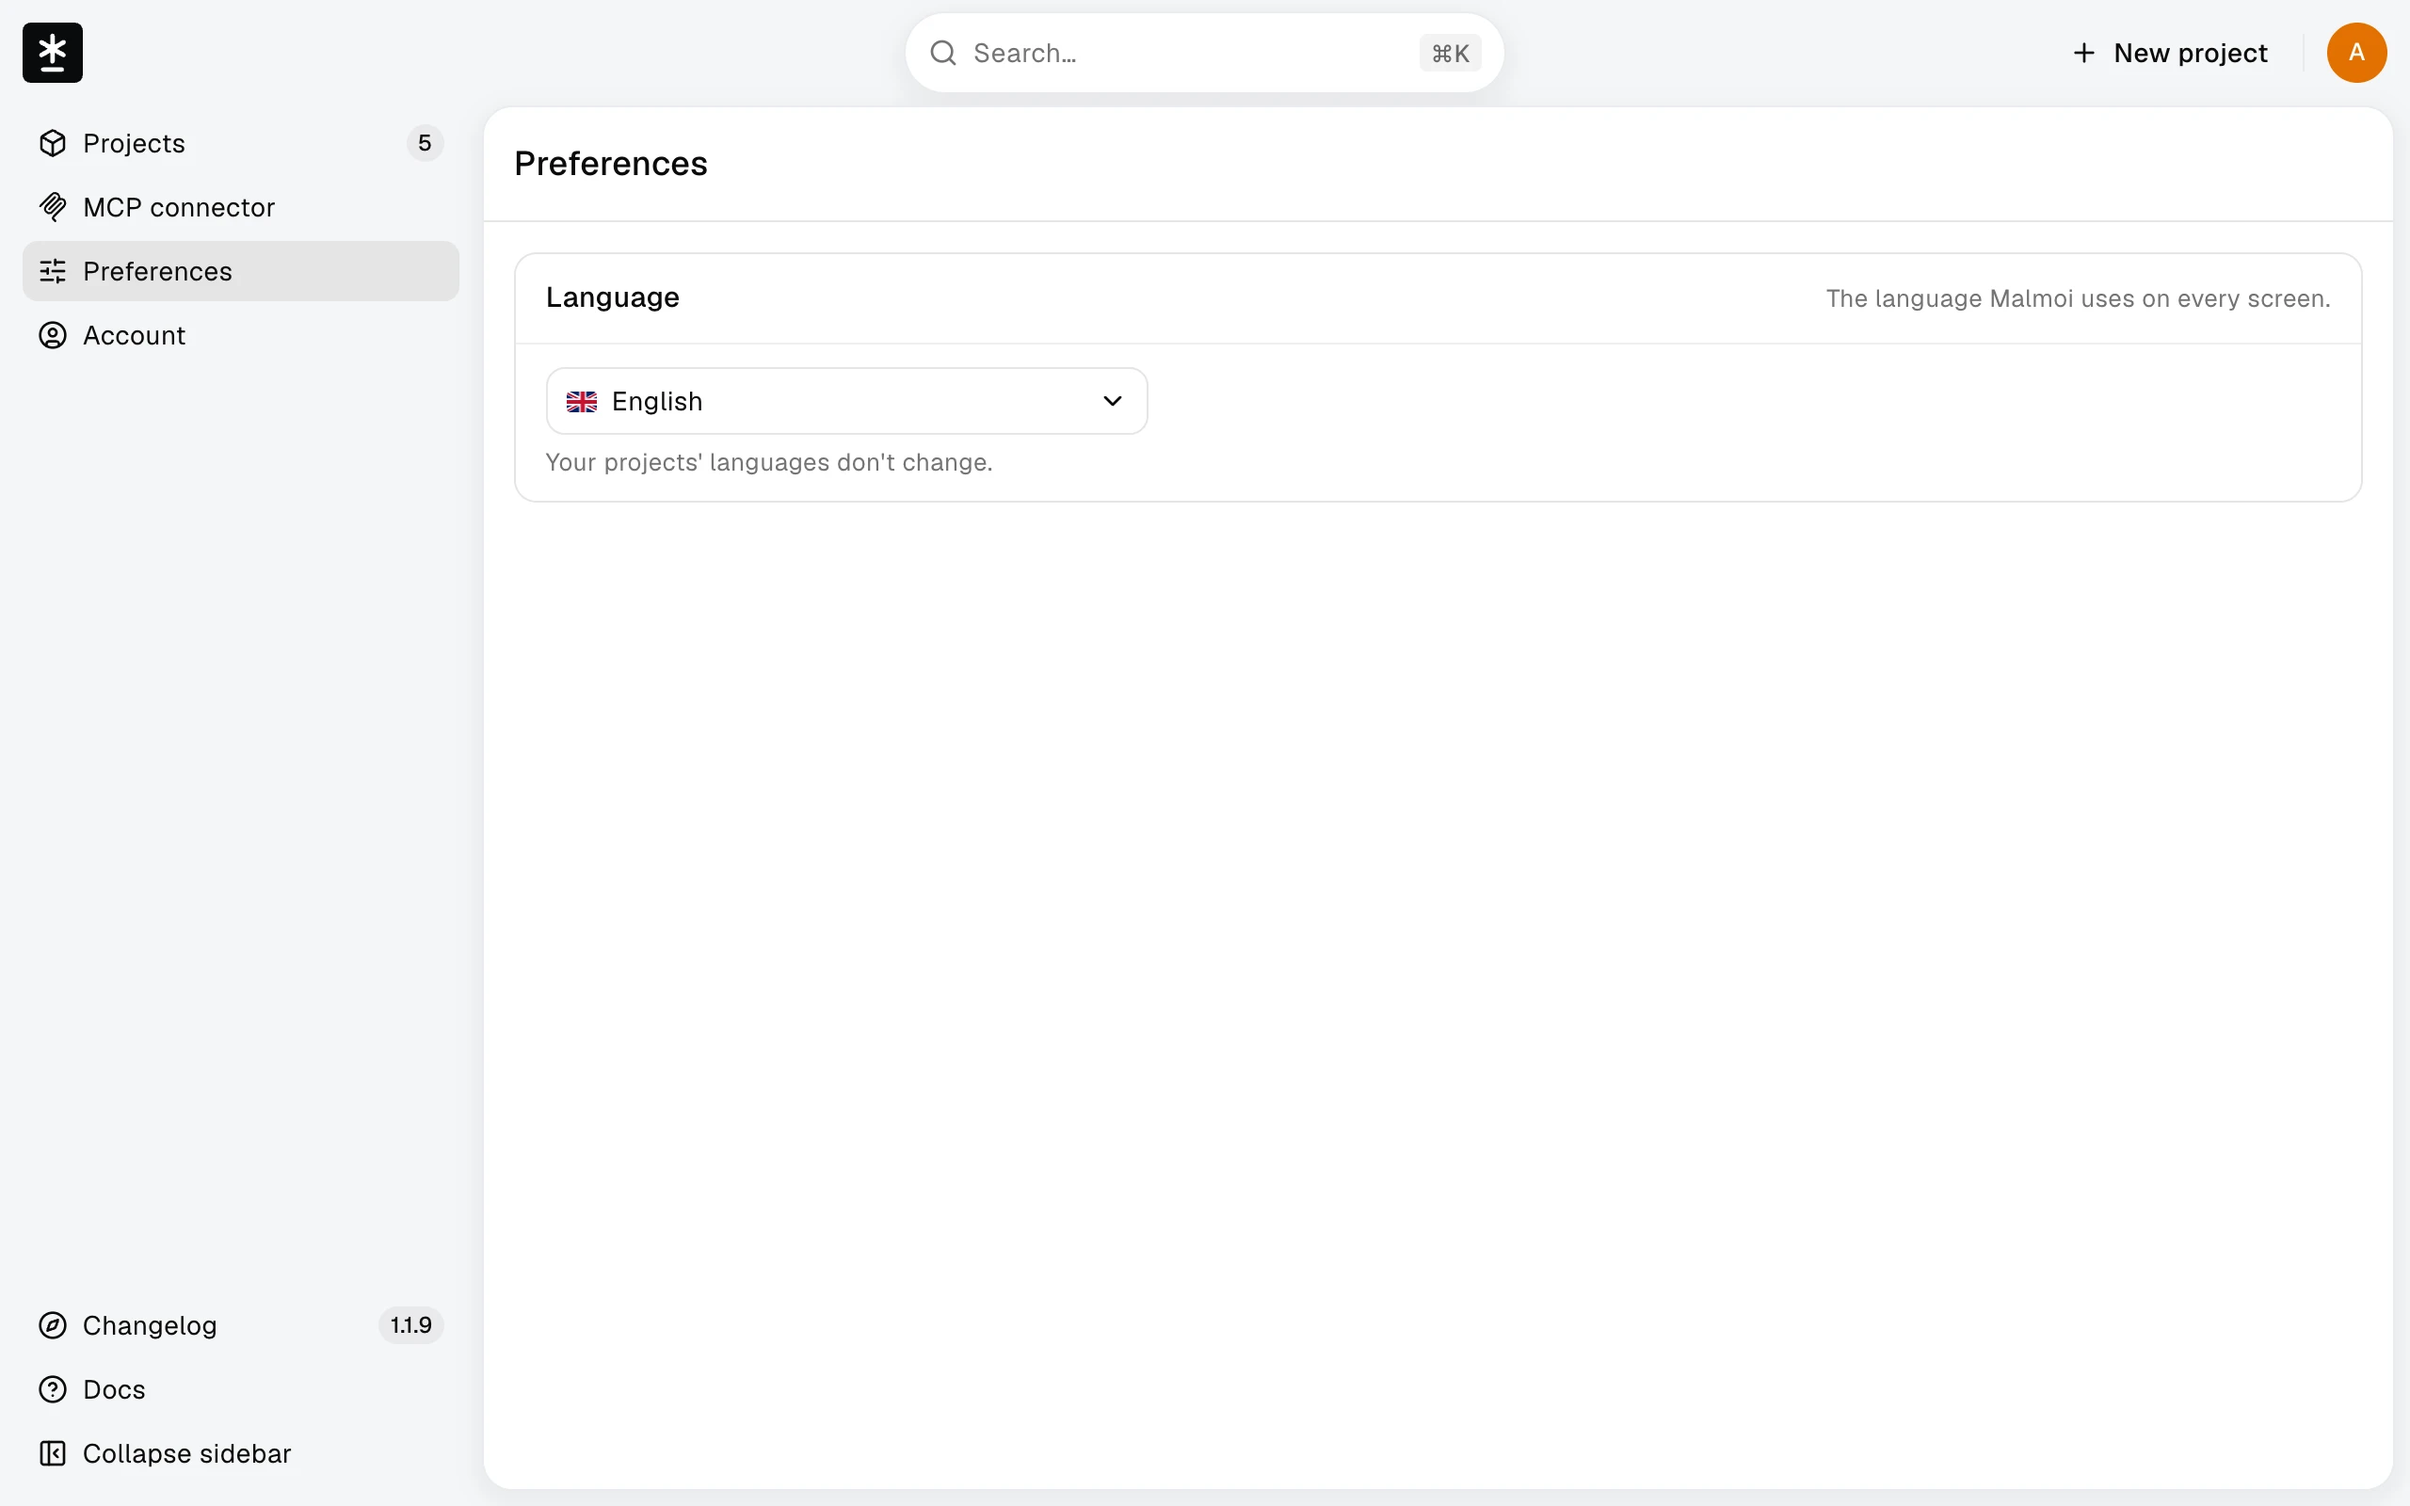
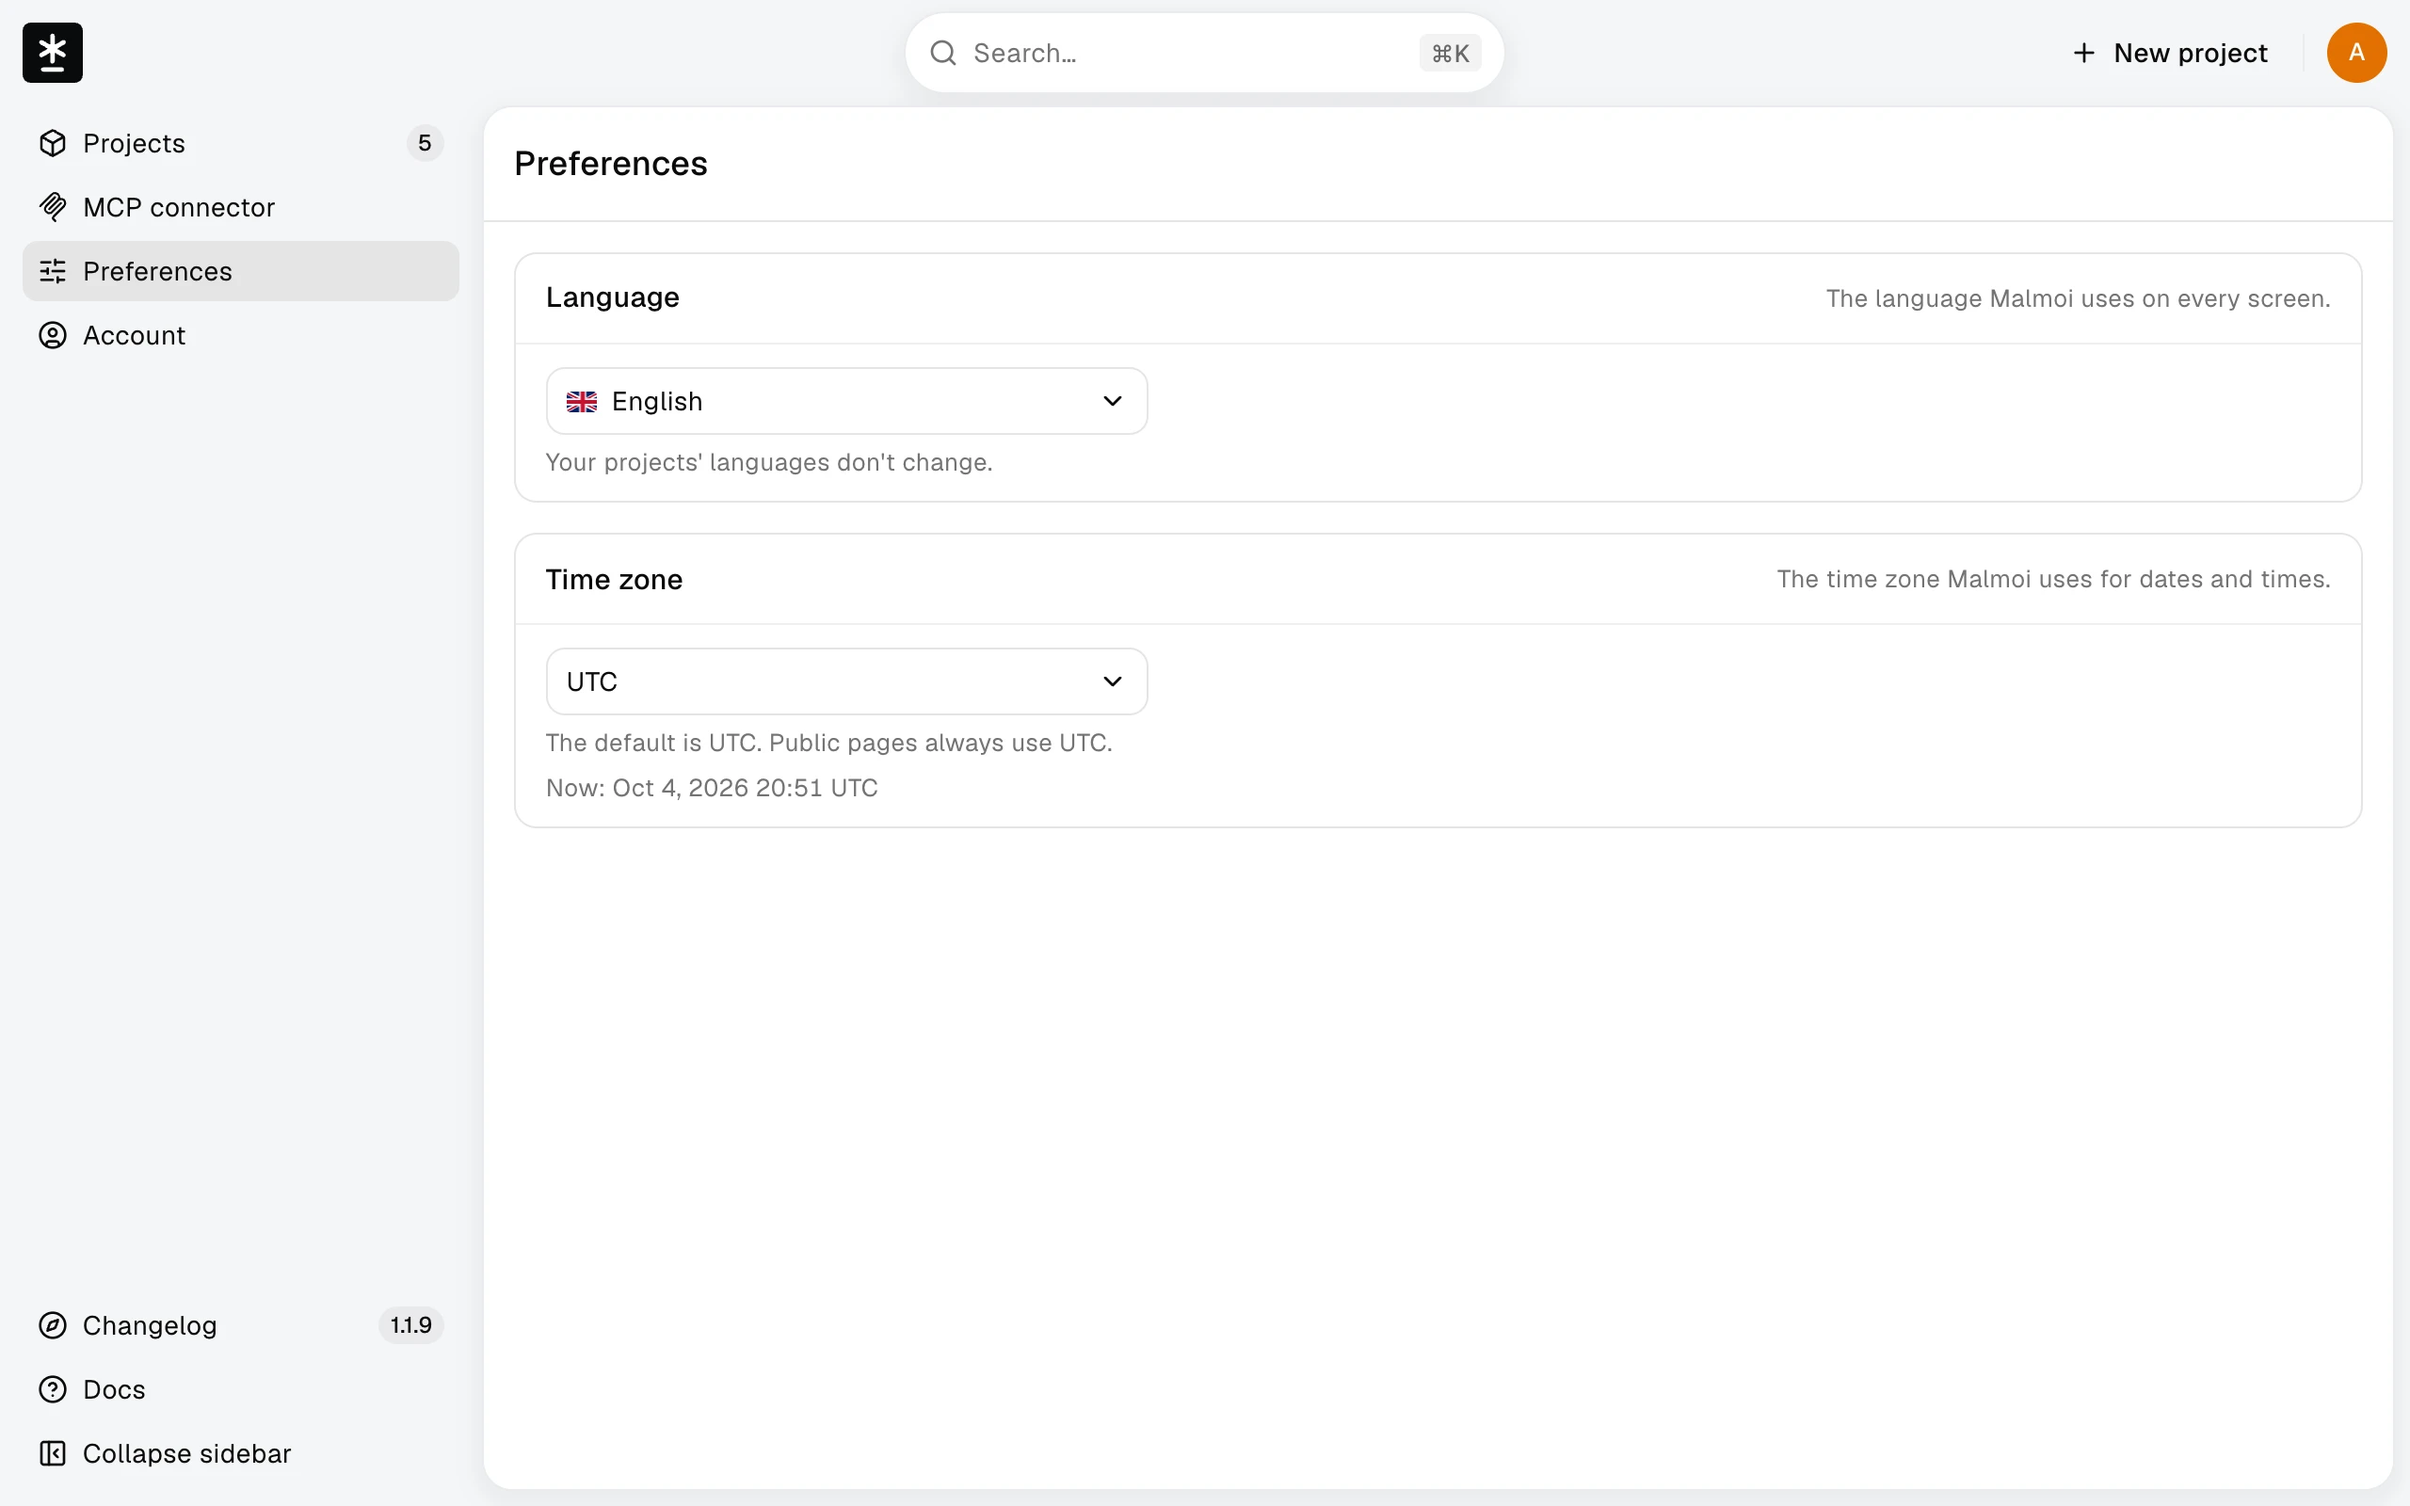
docs(guide): reshoot preferences with the time zone card

Changed region(s): [[0.2188, 0.4688, 0.4688, 0.5312], [0.75, 0.375, 0.9688, 0.4062], [0.2188, 0.375, 0.2812, 0.4062]]

diff --git a/guide/SHOOTING.md b/guide/SHOOTING.md
@@ -137,7 +137,7 @@
 | /guide/logs-event.webp | components/logs/event-dialog.tsx, components/logs/event-detail.tsx | 0dedec5f350f028a90964b1de78ea9b59ff0bf35, 2b19664f09f631ee69e914ae58d3536fa760fbe6 | 2560x1600 |
 | /guide/account.webp | app/(edit)/account/page.tsx, components/account/profile-picture.tsx, components/account/login-methods.tsx, components/account/github-section.tsx | 08c082fdfcf73447117b8630f1935c2df7616260, 398f113d7977abdc5f558f52e70bab28bdce3927, c5a0185be30d378a43f5f1fd74abdc4aff87fa6f, 9ba2437980de1b0efb7d651cae50a654a2415b41 | 2560x1600 |
 | /guide/footer-language-menu.webp | components/i18n/locale-switcher.tsx, lib/i18n/locales.ts | 26526326dab777d54e7992f65cf8ff62319bae4f, 4a40e67d1ad909c10f68096163fcbf9eaa3d528d | 2560x1600 |
-| /guide/preferences-language.webp | app/(edit)/preferences/page.tsx, components/preferences/language-card.tsx, dict:uiLocale.label, dict:preferences.help | b00175ed3188e7afd76c8d473e776c186c029f7d, d1c5f69237e54b80cab7e6e54bdc536d4fdf2d3e, 89b86ab0e66f527166d98df92ddbcf5416ed58f6, 7a750458e565a71d07b3e10a45654499a58c2673 | 2560x1600 |
+| /guide/preferences-language.webp | app/(edit)/preferences/page.tsx, components/preferences/language-card.tsx, components/preferences/time-zone-card.tsx, components/preferences/preference-select-card.tsx, dict:uiLocale.label, dict:preferences.help | a2c67d7b9003de6c34fb7b728ace95aa2e7698ac, 35fad581fb2f5b7b9ab4b854151513f55fa608bd, e89003ad1ccfc47db86ab5c6afc09e6f95d6aefb, 9f2170634bd334e35f5c5af9be137bb5b5193afd, 89b86ab0e66f527166d98df92ddbcf5416ed58f6, 7a750458e565a71d07b3e10a45654499a58c2673 | 2560x1600 |
 | /guide/mcp-create-token.webp | components/mcp/token-modal.tsx, components/mcp/token-grant-fields.tsx | af606c315ee6be9fbde91726442a1eaf1b434875, 7e1886518d239bbb8c0cf7ca2aa9b68648f3576b | 2560x1600 |
 | /guide/mcp-connector.webp | components/mcp/connected-apps-card.tsx, components/mcp/token-card.tsx | 622ad68db7cd503d0a130615ef0296835285b92c, 9c41fc7bc3180499c970f2d0219b66e080e15bad | 2560x1600 |
 | /guide/oauth-consent.webp | app/oauth/authorize/page.tsx, components/oauth/consent-panel.tsx, components/oauth/app-card.tsx, components/mcp/token-grant-fields.tsx | f7d6f8fe1be6b9580261103ade395f17f3a8dbff, 2660e31ba25278e2addd3e3bcddeb3b9a94c486e, aa583137442fbd8122e5ca461701f5ffa2dbe599, 7e1886518d239bbb8c0cf7ca2aa9b68648f3576b | 2560x1600 |
@@ -190,3 +190,4 @@
 - 2026-10-03 search-ux-polish GS(사용자 — "이번에 다 찍는다") — **`guide:check` stale 25컷 전부 + README 두 장(`hero` · `logs`) 재촬영**, 밀린 `create-ready` 포함. 그대로 둔 둘: `push-token-secret` · `actions-policy`(GitHub 화면, stale 아님). 검색 Dialog·스위처는 가이드 컷이 없어 따로 찍지 않았다 — 셸 헤더의 검색 트리거는 모든 셸 컷에 들어갔다. **상주 촬영 프로젝트 `Acme web`(위 절)을 이 촬영으로 만들었다**: 촬영 리포에 픽스처 두 커밋(전체 적재용 · 원문 셋 수정과 새 키 둘) → ①–④를 그 생성 흐름 그대로 찍었다(①은 `i18n`으로 거른 목록에서 `web` 선택, ②는 `web`·`emails` 두 세트, ③은 `Acme web`/`acme-web`, ④는 토큰 input을 43자 가짜 값으로 바꾸고 `api-url` 두 줄 제거) → OWNER Sync로 검토 대기 9칸 → EDITOR 초대 1건을 dev DB에 심어 `accept-invitation`을 찍고 **실제로 수락**(상주 멤버). 번역·Home·Members·Sources·Settings·Publish·Revert 컷은 전부 `Acme web`, `logs-event`·README `logs`는 PR 이력이 있는 `bugshot-i18n-test-qa`(Kind: Publish, 17:11 행부터). MCP 연결 둘은 가짜 `OAuthConnection` 행 → 촬영 뒤 id로 삭제(0→0), `oauth-consent`는 claude.ai CIMD authorize 요청(Authorize 안 누름). 전후 대조: 기존 프로젝트 셋(`bugshot-i18n-test-qa` 사건 476 · `i18n-order-check` 72 · 보관된 `malmoi` 11)은 그대로, `acme-web`이 새로 생겼다(키 64 · 멤버 2 · 사건 11 · 미전달 0), OAuth 연결 0→0, 촬영 리포에 PR 없음. ⚠ **새로 밟은 것**: dev DB가 촬영 중 한 번 `DatabaseNotReachable`로 Home을 `Something went wrong`으로 그렸다 — 캡처 전에 그 문구가 없는지 확인한다. Settings·Account의 파일 입력은 브라우저 로케일 문구(한국어)를 숨긴 input에 들고 있어 화면엔 안 보인다. `create-name`은 Address 입력에 포커스 링이 남으니 blur 뒤 찍는다. Logs의 Kind 필터 버튼도 고른 뒤 포커스 링이 남는다.
 - 2026-10-04 project-card-tabs(Home 메타 열이 탭 셋 `Project` · `Sync` · `Publish` · Logs Publish 상세에 `Values` 칸) — `guide:check` stale 6컷(10건). **재촬영 8**: `project-home`(OWNER, 착지 그대로 Project 탭) · `home-paused`(OWNER, **Sync 탭** — 본문 `sync/push.md`가 "Sync 탭의 Hold 행에 Held"라고 말하므로 그 탭을 찍었다) · `sync-discard`(OWNER, Project 탭 메타 열이 Dim 뒤로 보인다) · `sources`(`f78e3d2d` — 행 설명 굵기 500→400) · `logs-event`(같은 사건 `Jordan Lee sent translations to GitHub` · 2 files, `Values`는 기록 이전 실행이라 `— not recorded for this run`) · `home-publish` · `publish-preview` · `publish-result`(EDITOR — 뒤 두 장은 stale이 아니지만 Dim 뒤가 Home이고 같은 셋업 흐름이라 함께 찍었다). **SHA만 갱신 1**: `workflow-file` — `ci-card.tsx`의 행 설명 굵기 변경은 모달 Dim 블러 뒤라 컷에 안 보인다. 매핑 소스 추가: `project-home`에 `meta-tabs.tsx`, `home-paused`에 `meta-column.tsx`·`meta-tabs.tsx`(탭 머리·Hold 행이 그 둘에서 그려진다). README `hero`·`logs`는 그대로(번역 화면 · Logs 목록 — 이번 변경 밖). 셋업: OWNER `checkout.submit` de `Jetzt bestellen` 저장 → `home-paused`·`sync-discard`(Cancel) → 실제 Revert(켜져 있었다) · EDITOR `checkout.submit` fr `Passer la commande` → `home-publish`·`publish-preview`(PR 안 엶) → 빈 값 재저장 → Publish(`Nothing differs`) → `publish-result` → OWNER로 재로그인. 전후 대조: 미전달 0→0(acme-web · qa · order · operator), 열린 PR·GitHub 쓰기 없음, OAuth 연결 0→0, `acme-web` 사건 11→16(편집·Revert · 편집·재저장·Publish), 그 Publish 실행이 `changed 0 · changedValues 0 · prUrl null`로 기록됐다(새 칸 실측), `bugshot-i18n-test-qa` 476→476 · `i18n-order-check` 72→72 · `operator-check` 5→5. ⚠ **새로 밟은 것**: ① `Emulation.setDeviceMetricsOverride`가 **ego-browser 프로세스가 끝나면 풀린다**(reload도 아니다) — 스크립트마다 첫 줄에서 다시 건다. ② 이 세션에서 스크롤 패널이 **클래식 스크롤바(15px)** 로 그려졌다(시스템 설정에 따라 오버레이와 갈린다) — 캡처 직전 `scrollbar-width: none` 스타일을 주입해 다른 컷과 폭을 맞췄다. ③ 메타 탭은 Radix Tabs라 `element.click()`이 안 먹는다 — 첫 탭에 포커스 + `ArrowRight`로 옮긴다. ④ EDITOR(Google) 표시 이름이 Recent logs의 사건 문장으로 OWNER 화면에도 나온다(소문자·공백 꼴) — OWNER 컷에도 `EDITOR_PAIRS`를 같이 건다.
 - 2026-10-05 ui-locales H3 — `language.md`(세 언어) 컷 둘 **추가**: `preferences-language`(OWNER, `/preferences` en · English) · `footer-language-menu`(비로그인 `/docs`, 푸터 메뉴를 클릭으로 열어 포커스 링 없음). 세 언어 원고가 같은 경로를 쓰고 alt·title만 언어별이다 — ⚠ en·es alt에 endonym `한국어`를 쓰면 `no-korean-ui`가 red라 `Korean`·`coreano`로 적었다. 마스킹은 셸 우상단 아바타 글자 `S`→`A` 하나(`SinhyeokKang`과 `Alex Kim`의 `hueOf`가 같은 amber라 색은 그대로). 셋업·DB 쓰기 없음(촬영 전 계정 언어 en). 기존 stale 컷(셸에 `Preferences` 항목·푸터 스위처가 선 것)은 spec 비목표라 그대로 둔다.
+- 2026-10-05 user-timezone Q1 — `preferences-language` **재촬영**: Language 아래 Time zone 카드(Select `UTC` · 도움말 · `Now:` 미리보기)가 섰다. 계정 시간대는 기본(UTC, `User.timeZone` null)이고 화면 언어 en이다 — 미리보기 시각은 촬영 순간의 UTC다. 카드 둘이 같은 조립(`preference-select-card.tsx`)이고 Time zone은 `time-zone-card.tsx`가 그리므로 둘을 매핑 소스에 더했다. 마스킹은 전과 같이 아바타 글자 `S`→`A` 하나. 셋업·DB 쓰기 없음. 같은 `guide:check`의 나머지 stale(25컷 남짓 — 셸·다른 기능 변경)은 이번 범위 밖이라 그대로 둔다.
